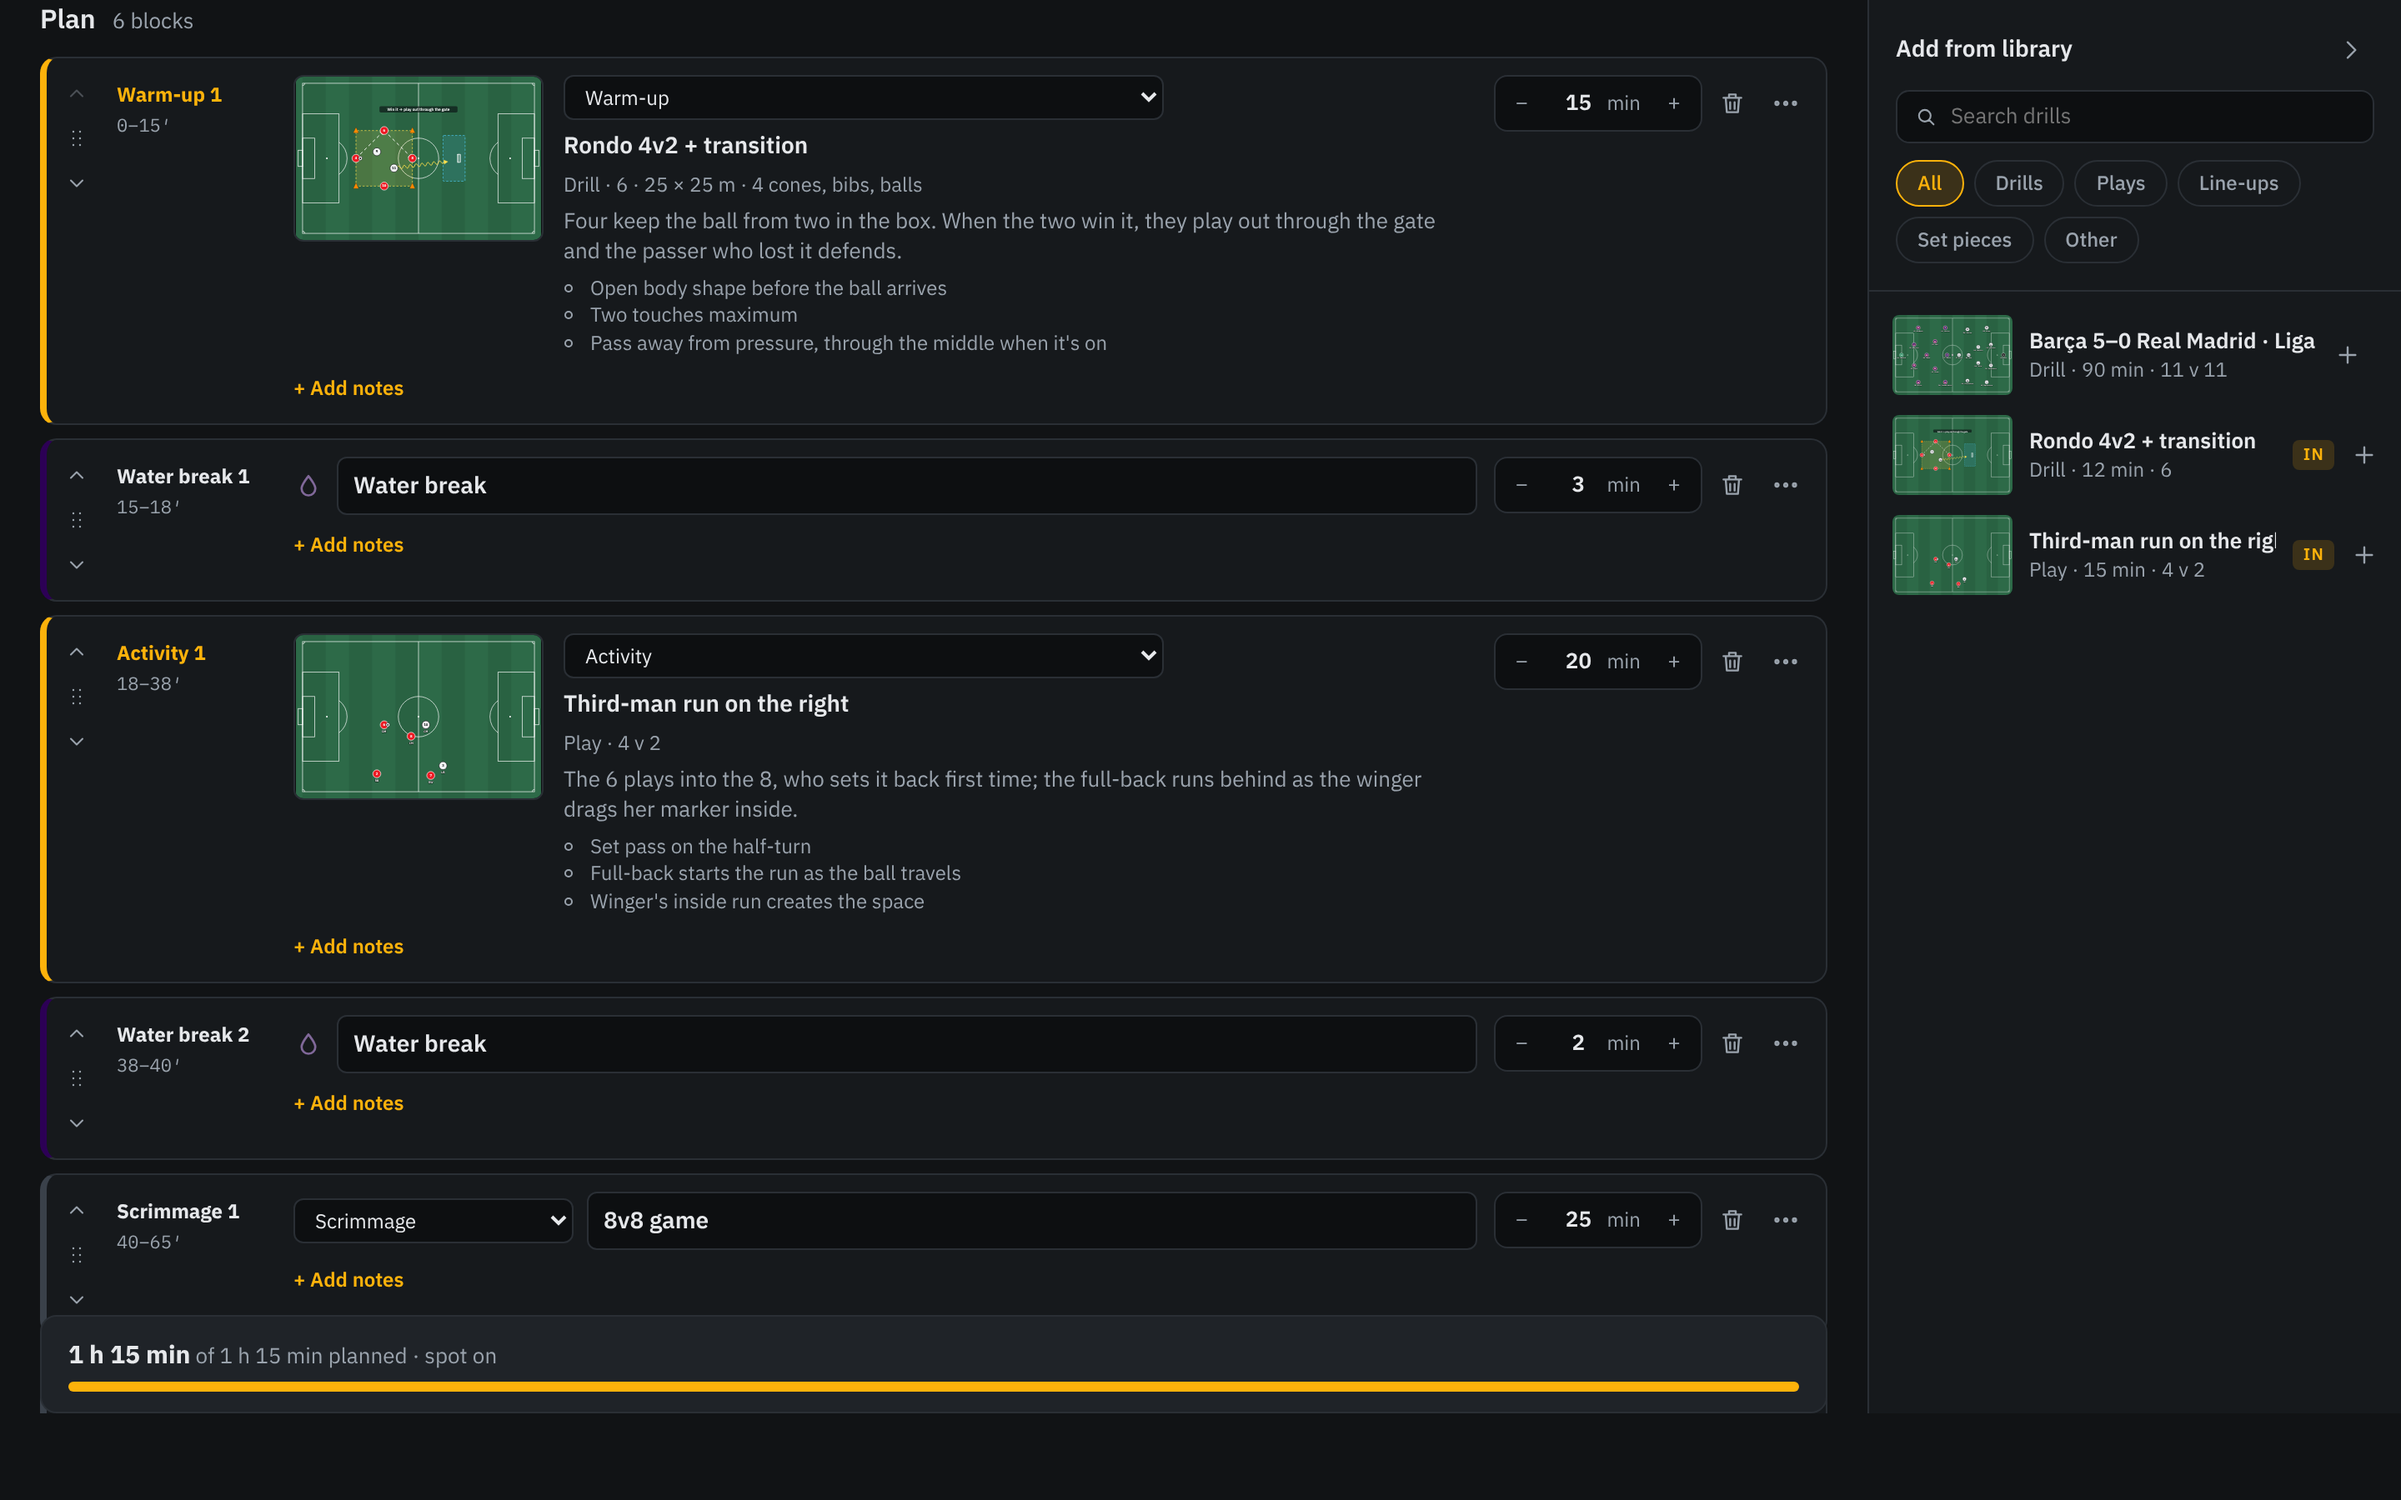
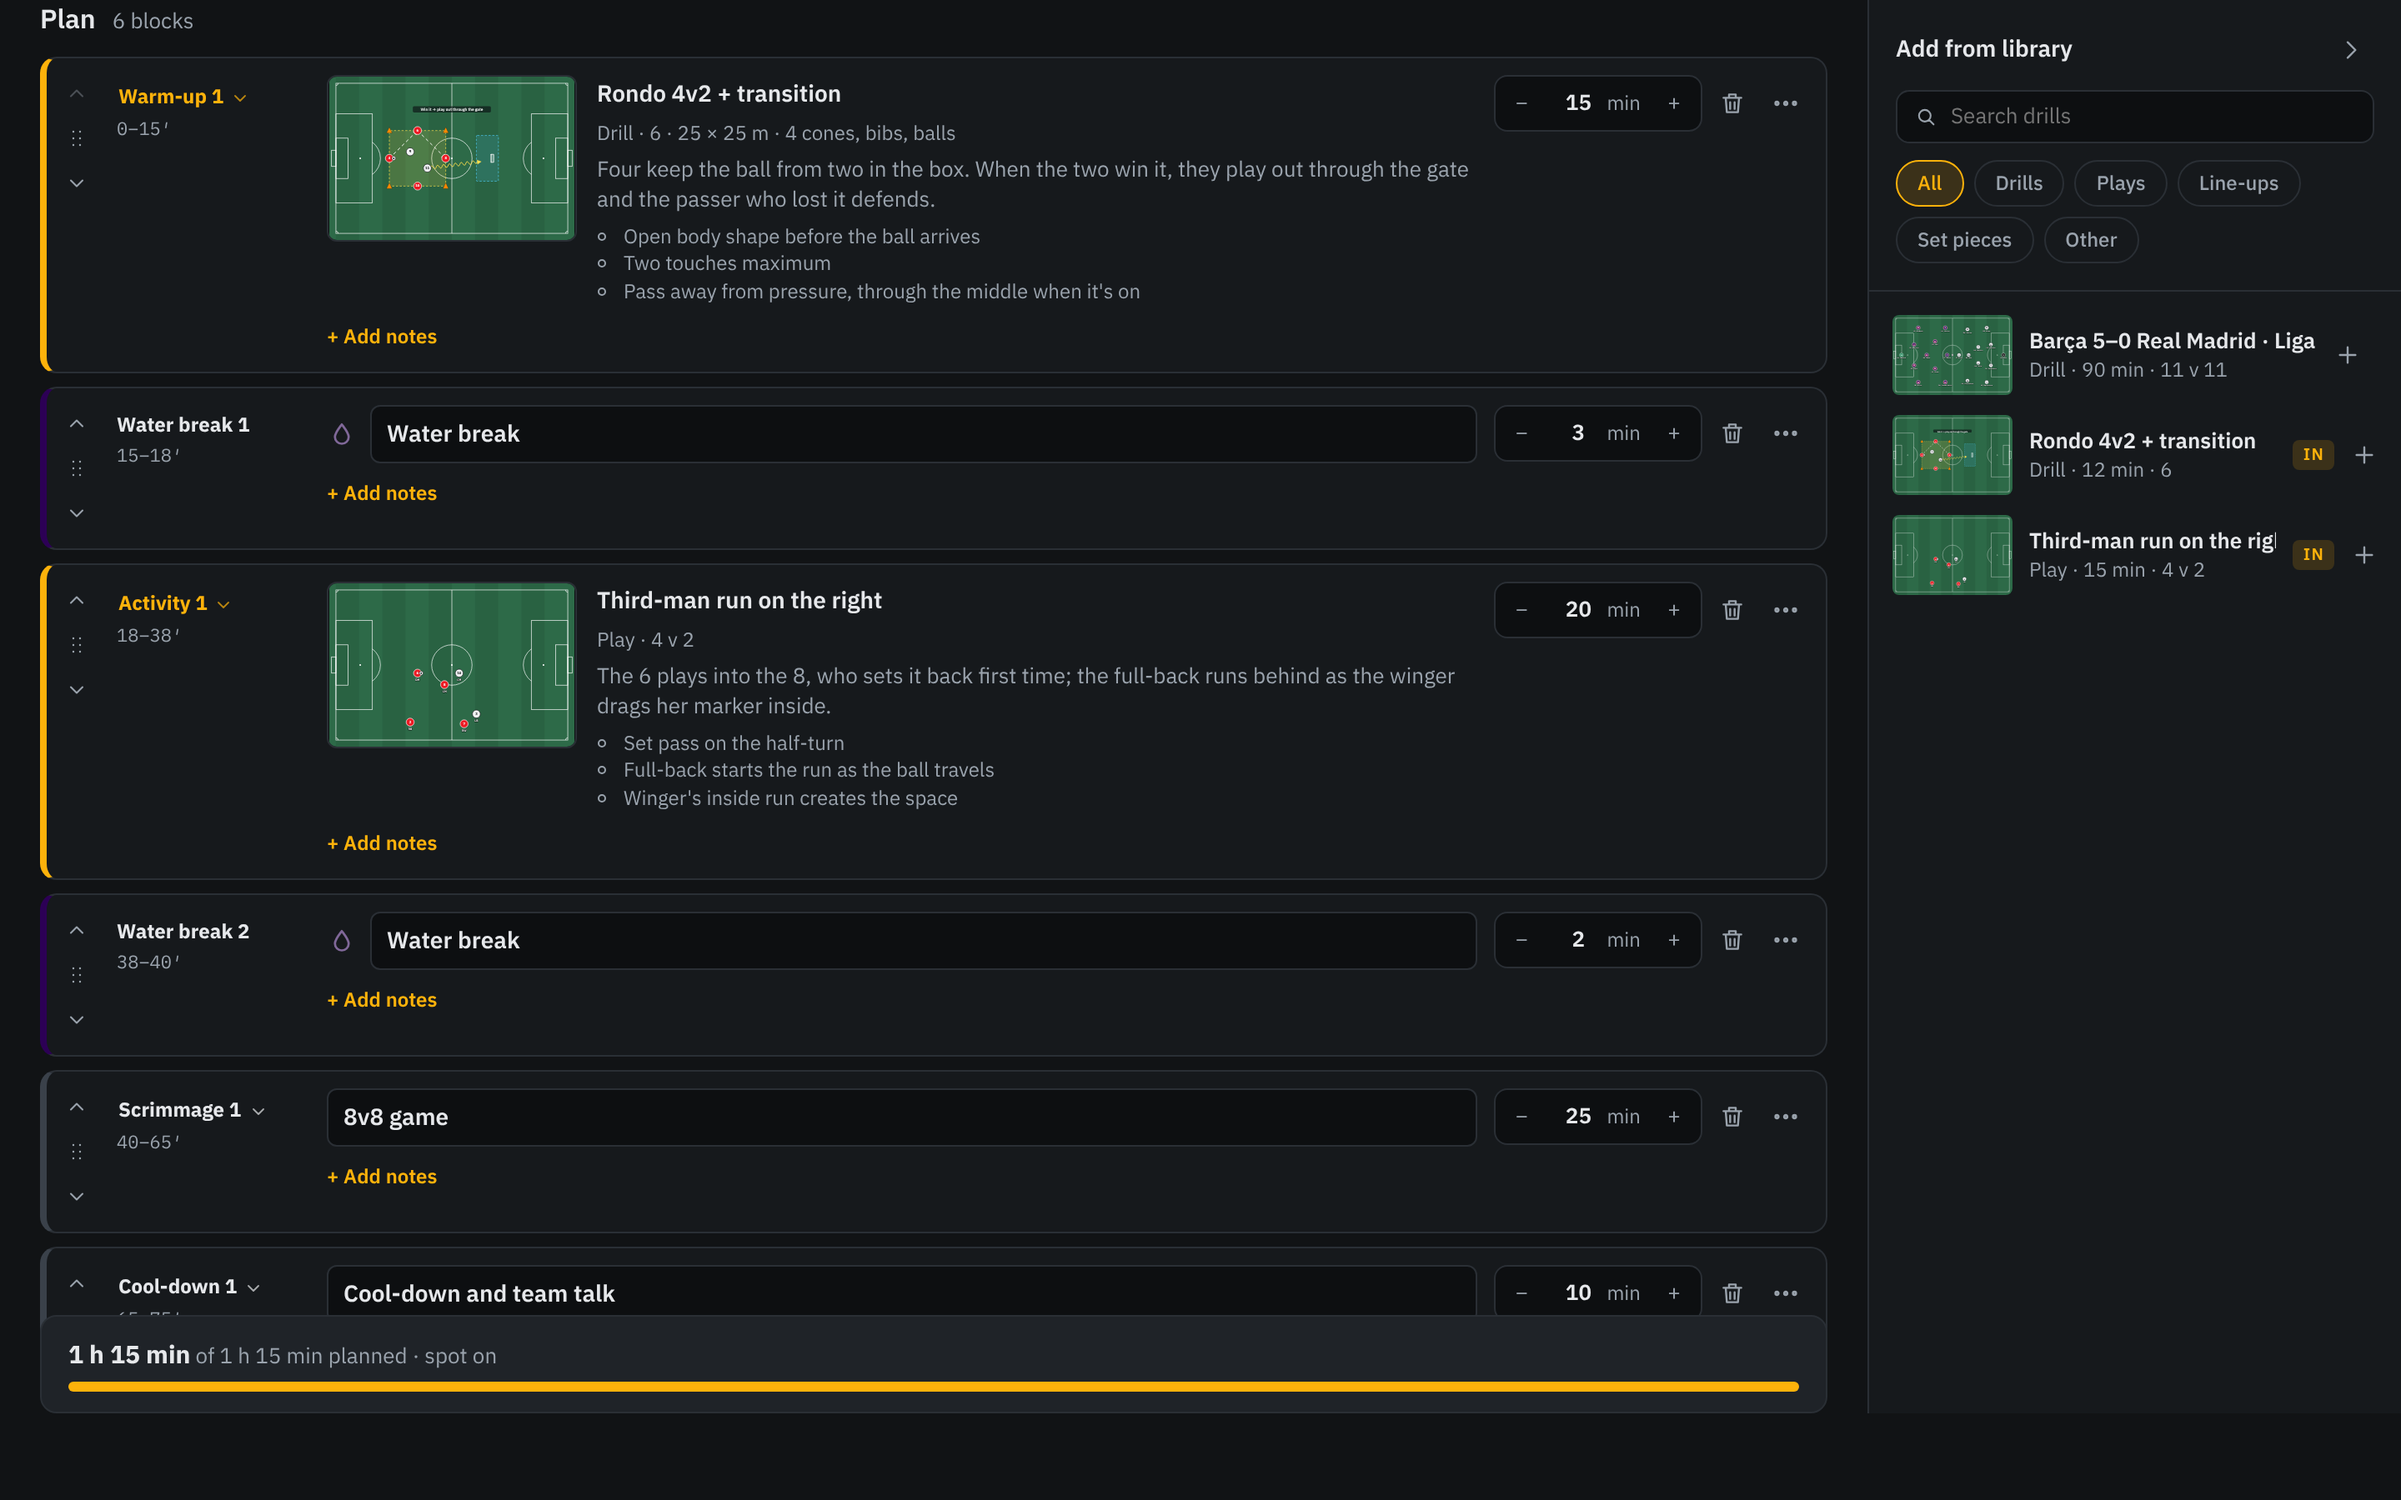
docs: add an example session and update the session screenshot

diff --git a/README.md b/README.md
@@ -59,13 +59,14 @@ Everything is stored as files on your computer, and the app works without an acc
 
 ### Sessions
 
-![A session plan: a warm-up rondo, water breaks and a third-man run, with the time adding up](screenshots/session.png)
+![A session plan: a warm-up rondo, an activity, water breaks, a scrimmage and a cool-down, with the time adding up](screenshots/session.png)
 
 - Build a training session for one sport from the drills in your library, plus water breaks and other blocks like a game or a team talk
 - Give each block its minutes; Lineup numbers the parts (Warm-up 1, Activity 1, Water break 1) and adds up the time against what you planned
-- Reorder blocks by dragging or with the arrows, and set what each drill is in this session (warm-up, activity, small-sided game, scrimmage, cool-down)
+- Reorder blocks by dragging or with the arrows, and click a block's name to set its part of the session (warm-up, activity, small-sided game, scrimmage, cool-down, or your own)
 - Details so another coach can run it: age group or team, time, description, topic tags, players, equipment and area
 - Export the session sheet as a PDF or an image, or print it straight from the app
+- Share a session as a `.lineup-session` file with its drills inside; importing it brings them all in
 
 ### Library and files
 
@@ -73,7 +74,8 @@ Everything is stored as files on your computer, and the app works without an acc
 
 - Every board and session saves automatically to `Documents\Lineup`, as `.lineup` and `.lineup-session` files
 - Browse by sport or folder, search across titles, tags and notes, sort, duplicate and delete
-- Import and export `.lineup` files, and export any board as a PNG image
+- Import and export boards (`.lineup`) and sessions (`.lineup-session`), and export any board as a PNG image
+- **Created** and **Imported** in the sidebar keep what you made apart from what came from files
 - Undo and redo for every change, and copy and paste between boards
 - Right-click anything for its actions
 - Dark and light themes, five presets, and your own primary and secondary colours
@@ -81,11 +83,12 @@ Everything is stored as files on your computer, and the app works without an acc
 
 ### Example boards
 
-The [`examples`](examples) folder has boards you can import from the library's **Import** button:
+The [`examples`](examples) folder has boards and a session you can import from the library's **Import** button:
 
 - [`barca-real-madrid-2023.lineup`](examples/barca-real-madrid-2023.lineup): Barça 5–0 Real Madrid, Liga F, 19 November 2023, with both starting XIs
 - [`rondo-4v2.lineup`](examples/rondo-4v2.lineup): a rondo with a transition gate
 - [`third-man-run.lineup`](examples/third-man-run.lineup): an animated third-man run down the right
+- [`playing-through-the-thirds.lineup-session`](examples/playing-through-the-thirds.lineup-session): a 75-minute U14 session with the rondo and the third-man run inside
 
 ## Roadmap
 
